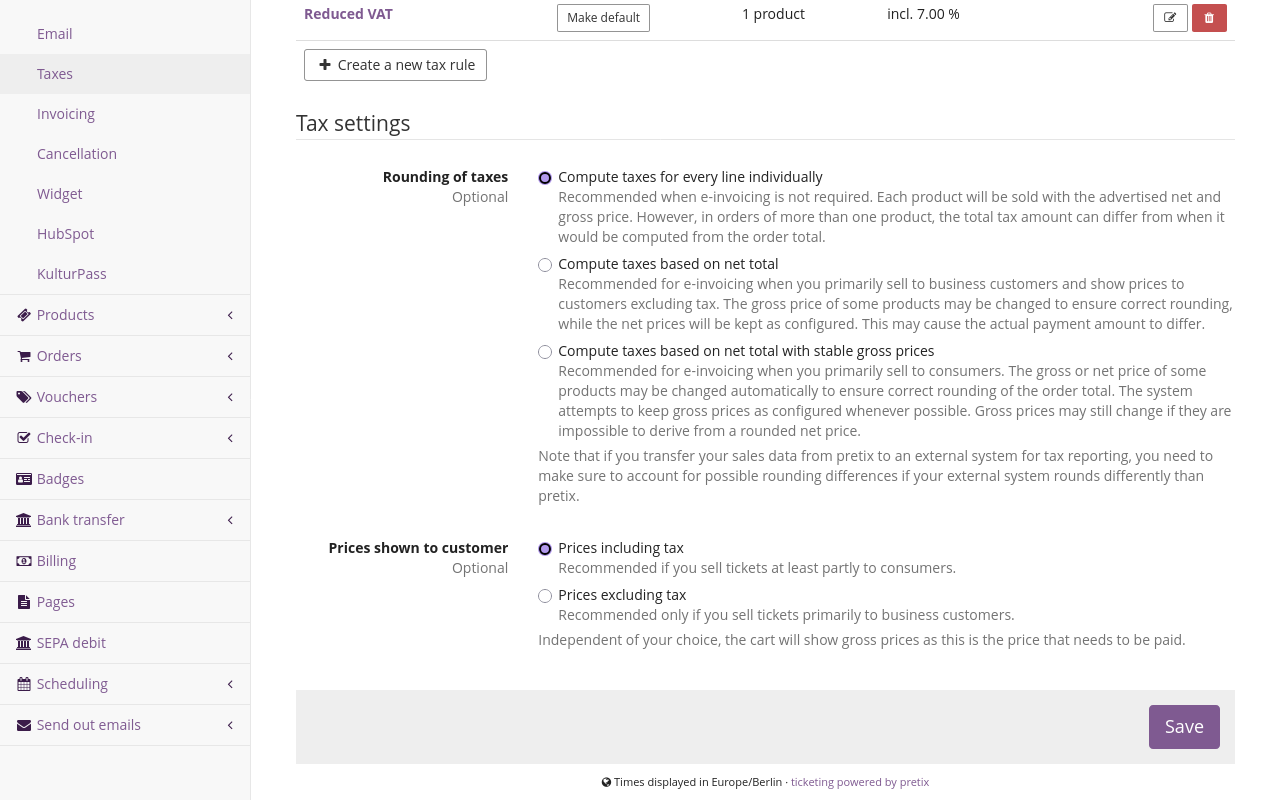
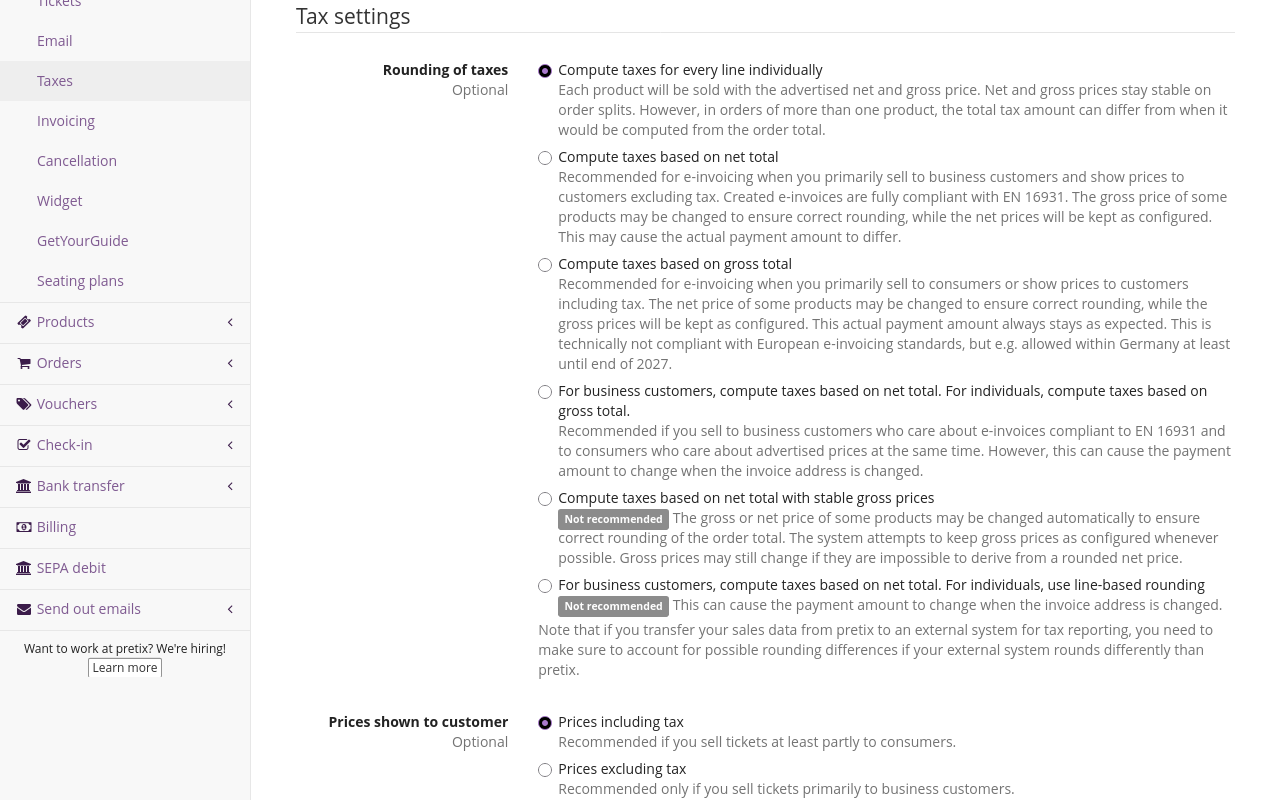
Explain new options for calculating tax; update screenshot

diff --git a/docs/guides/taxes.md b/docs/guides/taxes.md
@@ -275,7 +275,7 @@ Then, switch to the :btn:Price: tab and enter the sum of those amounts in the "D
 
 ### Selecting the tax computation algorithm
 
-pretix offers three different algorithms for calculating taxes.
+pretix offers six different options for calculating taxes.
 Your choice of algorithm depends on several factors:
 
  - whether you are using e-invoicing compliant with EN 16931
@@ -301,16 +301,40 @@ This algorithm is our implementation of [EN 16931](https://ec.europa.eu/digital-
 We recommend using this option if you are using e-invoicing and most of your customers are businesses.
 The disadvantage of this method is that customers may encounter unexpected changes in the gross total price of an order while they are using your shop.
 
-The third option is **"Compute taxes based on net total with stable gross prices"**.
-Use this option if you want pretix to calculate taxes by making minimal changes to net prices of individual positions in order to arrive at the expected gross total.
+The third option is **"Compute taxes based on gross total"**.
+Use this option if you want pretix to compute taxes using the gross total of an order.
+The advantage is that customers do not encounter unexpected changes to the gross total price of an order while they are using your shop.
+The disadvantage of this method is that it can introduce miniscule variations in the net prices paid on individual order positions.
+Thus, you may end up selling the same product at different net prices.
 
-This algorithm is also compatible with EN 16931.
-We recommend using this option if you are using e-invoicing and most of your customers are private individuals.
+The fourth option is **"For business customers, compute taxes based on net total. For individuals, compute taxes based on gross total"**.
+This is a combination of the second and third option.
+Use it if you want to issue invoices compliant with EN 16931 to business customers while also avoiding unexpected pricing behavior for individual customers.
+If you select this option, invoices for individual customers will not comply with EN 16931.
+Business customers may encounter unexpected changes in the gross total price of an order while they are using your shop.
+If a customer changes their invoice data from business to individual or vice versa, then the gross total of the order may change.
+
+!!! Note
+    We **do not recommend** using options five or six.
+    pretix offers these algorithms for backwards compatibility.
+    We are not aware of any tax situations in which it would make sense to choose option five or six over the others.
+
+The fifth option is **"Compute taxes based on net total with stable gross prices"**.
+We **do not recommend** using this option.
+If you select it, then pretix will calculate taxes by making minimal changes to net prices of individual positions in order to arrive at the expected gross total.
+
+This algorithm is compatible with EN 16931.
+Using this option can make sense if you are using e-invoicing and most of your customers are private individuals.
 The advantage is that customers do not encounter unexpected changes to the gross total price of an order while they are using your shop.
 
 The disadvantage of this method is that it can introduce miniscule variations in the net prices paid on individual order positions.
 Thus, you may end up selling the same product at different net prices.
 The gross prices and tax rates will always remain the same.
+
+The sixth option is **"For business customers, compute taxes based on net total. For individuals, use line-based rounding"**.
+We **do not recommend** using this option.
+It is a combination of the first and second option.
+If a customer changes their invoice data from business to individual or vice versa, then the gross total of the order may change.
 
 If you use an external system for tax reporting, you should select the method that matches the one used by that external system.
 This prevents inconsistencies in rounding between pretix and the external system.
